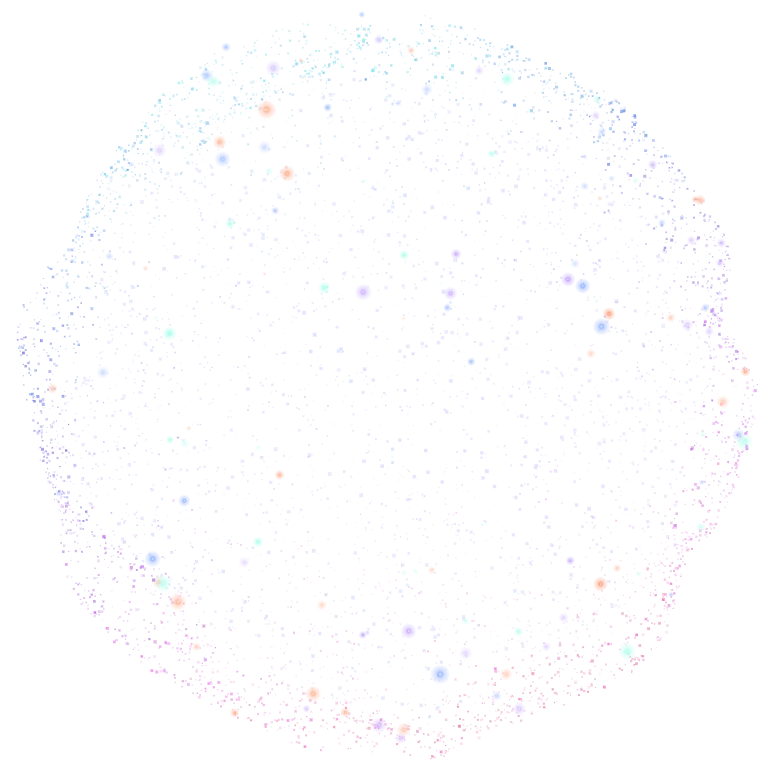
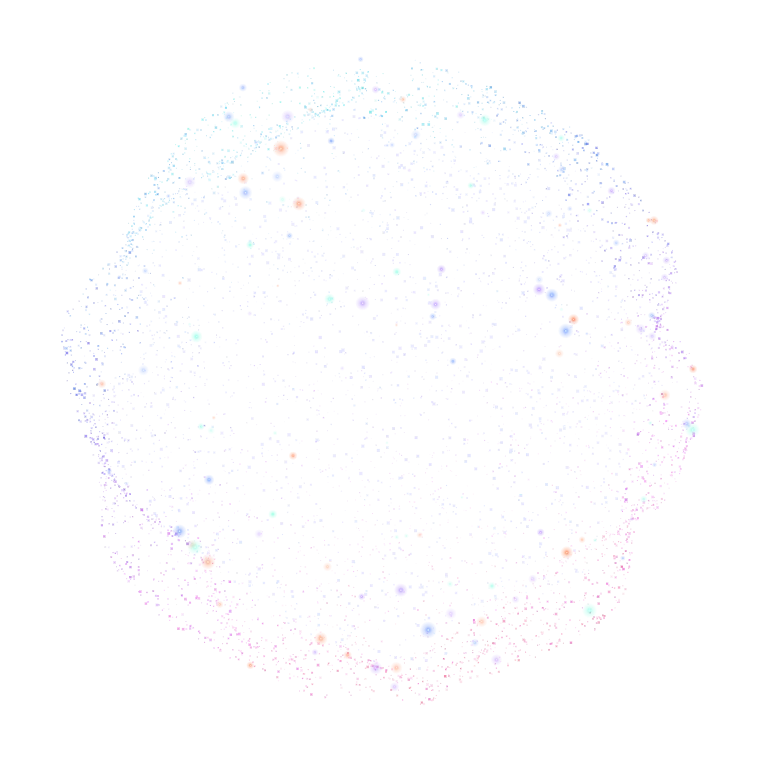
fix(frontend): restore hero layout and make the sphere respond to gestures

diff --git a/frontend/components/sphere-scene.ts b/frontend/components/sphere-scene.ts
@@ -1,3 +1,5 @@
+import type { SpherePose } from "./sphere-motion";
+
 const tau = 2 * Math.PI;
 const starColors = ["#8daeff", "#9cffe6", "#ff966e", "#c1a2ff"];
 
@@ -49,13 +51,17 @@ export function createSphereScene(context: CanvasRenderingContext2D, labels: HTM
     return { element, x: ring * Math.sin(angle), y, z: ring * Math.cos(angle) };
   });
 
-  return function draw(size: number, time: number) {
-    const radius = size * 0.465;
+  return function draw(size: number, time: number, pose: SpherePose) {
+    const radius = size * 0.40;
     const center = size / 2;
-    const angle = time * 0.095;
+    const angle = pose.yaw + (pose.pointerX - 0.5) * pose.influence * 0.22;
     const cos = Math.cos(angle);
     const sin = Math.sin(angle);
-    const tilt = 0.12 * Math.sin(time * 0.13) - 0.08;
+    const tilt = pose.pitch + 0.12 * Math.sin(time * 0.23) - (pose.pointerY - 0.5) * pose.influence * 0.16;
+    const breathing = 0.045 * Math.sin(time * 1.1);
+    const width = 1 + pose.stretchX - pose.stretchY * 0.4 + breathing;
+    const height = 1 + pose.stretchY - pose.stretchX * 0.4 - breathing;
+    const reach = size * 0.23;
     const ct = Math.cos(tilt);
     const st = Math.sin(tilt);
     context.clearRect(0, 0, size, size);
@@ -63,10 +69,21 @@ export function createSphereScene(context: CanvasRenderingContext2D, labels: HTM
     for (const p of particles) {
       const z = p.z * cos - p.x * sin;
       const depth = z * ct + p.y * st;
-      const wave = 1 + 0.013 * Math.sin(time * 0.68 + p.phase);
+      const wave = 1 + 0.034 * Math.sin(time * 0.95 + p.phase)
+        + pose.expansion * (0.2 + p.size * 170);
       const scale = radius * wave / (1 - depth * 0.095);
-      const x = center + (p.x * cos + p.z * sin) * scale;
-      const y = center + (p.y * ct - z * st) * scale;
+      let x = center + (p.x * cos + p.z * sin) * scale * width;
+      let y = center + (p.y * ct - z * st) * scale * height;
+      if (pose.influence > 0.01) {
+        const dx = x - pose.pointerX * size;
+        const dy = y - pose.pointerY * size;
+        const distance = Math.sqrt(dx * dx + dy * dy);
+        if (distance < reach) {
+          const push = (1 - distance / reach) ** 2 * reach * pose.influence / Math.max(1, distance);
+          x += dx * push;
+          y += dy * push;
+        }
+      }
       const light = (depth + 1) / 2;
       const dot = Math.max(0.55, radius * p.size * (0.68 + light));
       context.globalAlpha = 0.29 + light * (0.58 + 0.12 * Math.sin(p.phase + time));
@@ -84,9 +101,9 @@ export function createSphereScene(context: CanvasRenderingContext2D, labels: HTM
       const z = anchor.z * cos - anchor.x * sin;
       const depth = z * ct + anchor.y * st;
       const scale = radius * 0.78 / (1 - depth * 0.095);
-      anchor.element.style.left = `${center + (anchor.x * cos + anchor.z * sin) * scale}px`;
-      anchor.element.style.top = `${center + (anchor.y * ct - z * st) * scale}px`;
-      anchor.element.style.opacity = String(Math.min(1, Math.max(0, depth * 5)));
+      anchor.element.style.left = `${center + (anchor.x * cos + anchor.z * sin) * scale * width}px`;
+      anchor.element.style.top = `${center + (anchor.y * ct - z * st) * scale * height}px`;
+      anchor.element.style.opacity = String(Math.min(1, Math.max(0, depth * 5)) * (1 - pose.expansion));
     }
   };
 }

diff --git a/frontend/components/sphere-motion.ts b/frontend/components/sphere-motion.ts
@@ -1,0 +1,80 @@
+// Pointer coordinates are fractions of the canvas so the response scales with the sphere.
+export function trackSphereMotion(surface: HTMLElement) {
+  const pose = { yaw: 0, pitch: -0.08, pointerX: 0.5, pointerY: 0.5, influence: 0, stretchX: 0, stretchY: 0, expansion: 0 };
+  let dragging: number | null = null;
+  let hovered = false;
+  let yawSpeed = 0;
+  let pitchSpeed = 0;
+  let lastMove = 0;
+  const clamp = (value: number, limit: number) => Math.max(-limit, Math.min(limit, value));
+
+  function move(event: PointerEvent) {
+    if (!event.isPrimary) return;
+    const rect = surface.getBoundingClientRect();
+    const x = (event.clientX - rect.left) / rect.width;
+    const y = (event.clientY - rect.top) / rect.height;
+    if (dragging === event.pointerId) {
+      const dx = x - pose.pointerX;
+      const dy = y - pose.pointerY;
+      const elapsed = Math.max(0.012, (event.timeStamp - lastMove) / 1000);
+      pose.yaw += dx * 4;
+      pose.pitch = clamp(pose.pitch - dy * 3, 1.1);
+      yawSpeed = clamp(dx * 4 / elapsed, 5);
+      pitchSpeed = clamp(-dy * 3 / elapsed, 4);
+    }
+    pose.pointerX = x;
+    pose.pointerY = y;
+    lastMove = event.timeStamp;
+    hovered = true;
+  }
+
+  function down(event: PointerEvent) {
+    if (!event.isPrimary || event.button !== 0) return;
+    move(event);
+    dragging = event.pointerId;
+    yawSpeed = pitchSpeed = 0;
+    surface.setPointerCapture(event.pointerId);
+  }
+
+  function release(event: PointerEvent) {
+    if (dragging !== event.pointerId) return;
+    dragging = null;
+    if (event.timeStamp - lastMove > 100) yawSpeed = pitchSpeed = 0;
+    hovered = event.pointerType === "mouse" && surface.matches(":hover");
+  }
+
+  function leave() {
+    hovered = false;
+  }
+
+  const events = new AbortController();
+  const options = { signal: events.signal };
+  surface.addEventListener("pointermove", move, options);
+  surface.addEventListener("pointerdown", down, options);
+  surface.addEventListener("pointerup", release, options);
+  surface.addEventListener("pointercancel", release, options);
+  surface.addEventListener("lostpointercapture", release, options);
+  surface.addEventListener("pointerleave", leave, options);
+
+  return {
+    pose,
+    advance(dt: number) {
+      const ease = 1 - Math.exp(-9 * dt);
+      pose.yaw += dt * 0.14;
+      if (dragging === null) {
+        pose.yaw += yawSpeed * dt;
+        pose.pitch = clamp(pose.pitch + pitchSpeed * dt, 1.1);
+        pose.pitch += (-0.08 - pose.pitch) * (1 - Math.exp(-dt));
+      }
+      pose.stretchX += (Math.abs(yawSpeed) * 0.045 - pose.stretchX) * ease;
+      pose.stretchY += (Math.abs(pitchSpeed) * 0.045 - pose.stretchY) * ease;
+      yawSpeed *= Math.exp(-4 * dt);
+      pitchSpeed *= Math.exp(-4 * dt);
+      pose.influence += (Number(hovered) - pose.influence) * ease;
+      pose.expansion = Math.max(0, Math.min(1, window.scrollY / window.innerHeight));
+    },
+    disconnect: () => events.abort(),
+  };
+}
+
+export type SpherePose = ReturnType<typeof trackSphereMotion>["pose"];

diff --git a/frontend/components/particle-sphere.tsx b/frontend/components/particle-sphere.tsx
@@ -4,6 +4,7 @@ import { useEffect, useRef } from "react";
 import type { Locale } from "../data/team";
 import { sphereLabels } from "../data/sphere-labels";
 import { createSphereScene } from "./sphere-scene";
+import { trackSphereMotion } from "./sphere-motion";
 
 export function ParticleSphere({ lang }: { lang: Locale }) {
   const container = useRef<HTMLDivElement>(null);
@@ -16,6 +17,7 @@ export function ParticleSphere({ lang }: { lang: Locale }) {
 
     const draw = createSphereScene(context, Array.from(element.querySelectorAll("li")));
     const motion = window.matchMedia("(prefers-reduced-motion: reduce)");
+    const movement = trackSphereMotion(element);
     let visible = false;
     let size = 0;
     let frame = 0;
@@ -24,9 +26,11 @@ export function ParticleSphere({ lang }: { lang: Locale }) {
 
     function animate(now: number) {
       if (now - previous >= 1000 / 30) {
-        time += previous ? Math.min(now - previous, 100) / 1000 : 0;
+        const dt = previous ? Math.min(now - previous, 100) / 1000 : 0;
+        time += dt;
+        movement.advance(dt);
         previous = now;
-        draw(size, time);
+        draw(size, time, movement.pose);
       }
       frame = requestAnimationFrame(animate);
     }
@@ -45,7 +49,7 @@ export function ParticleSphere({ lang }: { lang: Locale }) {
       const pixels = Math.round(size * Math.min(window.devicePixelRatio, 2));
       canvas.width = canvas.height = pixels;
       context.setTransform(pixels / size, 0, 0, pixels / size, 0, 0);
-      draw(size, time);
+      draw(size, time, movement.pose);
       element.dataset.ready = "";
       sync();
     });
@@ -59,6 +63,7 @@ export function ParticleSphere({ lang }: { lang: Locale }) {
     document.addEventListener("visibilitychange", sync);
     return () => {
       cancelAnimationFrame(frame);
+      movement.disconnect();
       resize.disconnect();
       observer.disconnect();
       motion.removeEventListener("change", sync);
@@ -67,7 +72,7 @@ export function ParticleSphere({ lang }: { lang: Locale }) {
   }, []);
 
   return (
-    <div ref={container} className="particle-sphere group pointer-events-none">
+    <div ref={container} className="particle-sphere group">
       <canvas aria-hidden="true" className="block size-full" />
       {sphereLabels.length > 0 && (
         <ul className="absolute inset-0 flex flex-col items-center justify-center gap-1">

diff --git a/frontend/app/globals.css b/frontend/app/globals.css
@@ -70,17 +70,17 @@
       #0d0e10;
   }
   .particle-sphere {
-    @apply relative order-1 mx-auto my-3 aspect-square w-full max-w-[27rem];
+    @apply absolute right-0 bottom-0 aspect-square w-[min(78vw,19rem)] touch-pan-y select-none motion-reduce:pointer-events-none md:top-1/2 md:right-[2%] md:bottom-auto md:w-[min(57%,85svh,54rem)] md:-translate-y-1/2;
     background: radial-gradient(closest-side, #7176cf24, #7566b00d 85%, transparent);
+  }
+  .particle-sphere[data-ready] {
+    @apply motion-safe:cursor-grab motion-safe:active:cursor-grabbing;
   }
   .particle-sphere:not([data-ready]) canvas {
     background: url("./assets/particle-sphere.webp") center / contain no-repeat;
   }
   .hero-title {
-    @apply relative mt-6 text-[clamp(3.65rem,10vw,9rem)] leading-[0.94] font-normal tracking-[-0.075em];
-  }
-  .hero-action {
-    @apply relative order-2;
+    @apply max-w-[6em] text-[clamp(3.5rem,8.6vw,8.5rem)] leading-[0.89] font-medium tracking-[-0.062em];
   }
   .project-brand {
     @apply absolute right-4 bottom-4 inline-flex items-center gap-[0.34em] rounded-full border border-[#09318d]/15 bg-white/95 px-4 py-3 text-[#09318d] shadow-lg;
@@ -94,35 +94,5 @@
     @apply block size-[0.68em] shrink-0 bg-[#f59acc];
     border-radius: 55% 55% 55% 12%;
     transform: rotate(-12deg);
-  }
-  @media (min-width: 48rem) {
-    .hero-layout {
-      min-height: max(39rem, calc(100svh - 4.6rem));
-    }
-    .particle-sphere {
-      @apply absolute top-1/2 left-1/2 my-0 max-w-none -translate-1/2;
-      width: min(63%, 86svh, 62rem);
-    }
-    .hero-event {
-      @apply absolute top-[8%] left-[6%];
-    }
-    .hero-title {
-      @apply pointer-events-none absolute inset-0 m-0 text-[clamp(4.4rem,7.6vw,9rem)];
-    }
-    .hero-title span {
-      @apply pointer-events-auto absolute;
-    }
-    .hero-title span:nth-child(1) {
-      @apply top-[17%] left-[9%];
-    }
-    .hero-title span:nth-child(2) {
-      @apply top-[34%] left-[64%];
-    }
-    .hero-title span:nth-child(3) {
-      @apply bottom-[20%] left-[17%];
-    }
-    .hero-action {
-      @apply absolute right-[3%] bottom-[16%] left-[60%] lg:left-[69%];
-    }
   }
 }

diff --git a/frontend/app/[lang]/page.tsx b/frontend/app/[lang]/page.tsx
@@ -109,9 +109,9 @@ export default async function Home({ params }: PageProps<"/[lang]">) {
           aria-labelledby="hero-title"
           className="hero relative isolate overflow-hidden border-b border-line"
         >
-          <div className="hero-layout relative mx-auto flex max-w-[112rem] flex-col px-5 py-8 sm:px-9 md:block md:px-0 md:py-0">
-            <ParticleSphere lang={lang} />
-            <p className="hero-event meta flex flex-wrap items-center gap-3 text-mint">
+          <ParticleSphere lang={lang} />
+          <div className="shell pointer-events-none relative flex min-h-[36rem] flex-col items-start pt-12 pb-44 sm:min-h-[40rem] md:justify-center md:py-24 [&>*]:pointer-events-auto lg:min-h-[clamp(38rem,74svh,54rem)]">
+            <p className="meta mb-7 flex flex-wrap items-center gap-3 text-mint">
               <span>
                 {team.event[lang]} {team.year}
               </span>
@@ -119,18 +119,14 @@ export default async function Home({ params }: PageProps<"/[lang]">) {
               {t.round}
             </p>
             <h1 id="hero-title" lang="en" className="hero-title">
-              {teamName.split(" ").map((word, index) => (
-                <span key={index}>{index > 0 && " "}{word}</span>
-              ))}
+              {teamName}
             </h1>
-            <div className="hero-action flex flex-col items-start gap-5">
-              <p className="max-w-[23ch] text-lg leading-snug tracking-tight text-paper md:text-xl">
-                {team.motto[lang]}
-              </p>
-              <a href="#members" className="pill">
-                {t.meet}
-              </a>
-            </div>
+            <p className="mt-6 max-w-[30ch] text-xl leading-snug tracking-tight text-paper md:text-2xl">
+              {team.motto[lang]}
+            </p>
+            <a href="#members" className="pill mt-8">
+              {t.meet}
+            </a>
           </div>
         </section>
         <section

diff --git a/docs/design.md b/docs/design.md
@@ -1,6 +1,6 @@
 # Визуальная спецификация визитки
 
-На первом экране посетитель видит название команды, девиз и переход к участникам. В центре вращается сфера из светящихся частиц. Вокруг неё расположены три слова названия команды. [Референс первого экрана](https://livel-agency.com/)
+На первом экране посетитель видит название команды, девиз и переход к участникам. Название команды выровнено по левому краю. На фоне вращается сфера из светящихся частиц. [Референс первого экрана](https://livel-agency.com/)
 
 ## Цвет и типографика
 
@@ -14,14 +14,14 @@
 | `lilac` | `#dfcdf5` | Подвал и роли |
 | `mint` | `#a4f1cf` | Подписи категорий и состояние наведения основной кнопки |
 
-Inter обслуживает кириллицу и латиницу. Файл переменного шрифта поставляется с приложением. Главный заголовок использует обычное начертание Inter с плотным трекингом и межстрочным интервалом 0,94. Заголовки секций используют шкалу 37,6–72 px. Основной текст начинается с 16 px. Короткие подписи мероприятия и учебной группы набраны системным моноширинным шрифтом. Исходные значения в rem и правила компонентов приведены в [общих стилях](../frontend/app/globals.css).
+Inter обслуживает кириллицу и латиницу. Файл переменного шрифта поставляется с приложением. Главный заголовок использует Inter Medium с межстрочным интервалом 0,89 и максимальной шириной 6 em. Заголовки секций используют шкалу 37,6–72 px. Основной текст начинается с 16 px. Короткие подписи мероприятия и учебной группы набраны системным моноширинным шрифтом. Исходные значения в rem и правила компонентов приведены в [общих стилях](../frontend/app/globals.css).
 
 ## Композиция
 
 | Область | Правило |
 | --- | --- |
 | Шапка | Логотип команды и сокращённое имя слева, якоря в центре, языки справа. На узком экране меню образует отдельную строку и может переноситься. |
-| Первый экран | От 768 px слова названия обрамляют сферу, девиз и кнопка стоят справа внизу. На телефоне сфера расположена между заголовком и девизом. Весь текст остаётся в HTML. |
+| Первый экран | Событие, название, девиз и кнопка образуют одну колонку слева. Сфера занимает правую часть экрана, на телефоне она смещается к нижнему правому краю. Весь текст остаётся в HTML. |
 | О команде | Узкая колонка с названием и более широкая с рассказом о команде и мотивации. |
 | Участники | Карточка содержит имя, аватар, группу, роль, вклад, навыки и контакт. При ширине от 768 px в ряду две карточки, от 1280 px — четыре. |
 | Навыки | Три строки с названием категории и списком технологий. Текст переносится независимо от соседней строки. |

diff --git a/docs/design-system.md b/docs/design-system.md
@@ -6,6 +6,6 @@
 - `.pill` оформляет основные действия и ссылки в карточках проектов. `.text-link` сохраняет подчёркивание у вторичных текстовых ссылок. Якоря меню получают контрастный текст при наведении. Видимый контур фокуса отделён от ссылки зазором.
 - Активный язык получает светлую заливку и `aria-current="page"`. Обе версии открываются обычными ссылками. Первая ссылка при обходе с клавиатуры ведёт к основному содержимому.
 - Навыки участников оформляются классом `.tag` и остаются элементами списка. Эмблемы рядом с названием и аватары при подписанном имени скрыты от экранного диктора.
-- На первом экране медленно вращается сфера из частиц. При системной настройке уменьшения движения виден неподвижный кадр, переход цвета основной кнопки отключается.
+- На первом экране сфера из частиц вращается сама и по направлению перетаскивания. Оболочка вытягивается при движении и плавно восстанавливает форму. При системной настройке уменьшения движения виден неподвижный кадр, переход цвета основной кнопки отключается.
 
 Перед публикацией проверьте переключение RU → EN → RU, видимый фокус, все якоря, контакт и проект. На 360, 768 и 1440 px проверьте перенос имён и заголовков, наличие изображения и отсутствие горизонтальной прокрутки.

diff --git a/docs/components.md b/docs/components.md
@@ -3,7 +3,7 @@
 | Компонент | Содержимое и состояния |
 | --- | --- |
 | Шапка | Эмблема со ссылкой на текущую языковую версию, меню, RU и EN. Активная ссылка имеет доступное состояние и контрастную заливку. |
-| Первый экран | Событие, название команды, девиз, ссылка к участникам. В центре вращается декоративная сфера. Локализованные подписи на её поверхности задаёт [список в TypeScript](../frontend/data/sphere-labels.ts). |
+| Первый экран | Событие, название команды, девиз, ссылка к участникам. Справа вращается сфера. Перетаскивание поворачивает её, движение указателя раздвигает частицы, а прокрутка расширяет оболочку. Локализованные подписи на её поверхности задаёт [список в TypeScript](../frontend/data/sphere-labels.ts). |
 | Карточка участника | Локализованные имя, роль, вклад и навыки, учебная группа, фото или инициалы. При заполненном личном контакте показывает личную ссылку, иначе ведёт в общий канал с подписью «Через команду / Via the team». |
 | Строка навыков | Название категории и список элементов, допускающий перенос. |
 | Карточка проекта | Локализованное изображение с альтернативным текстом, тип «Проект / Project» или «Идея / Idea», название, описание и необязательная ссылка-кнопка. Для Dobropay обложка дополнена фирменным знаком и написанием `dobropay`. |

diff --git a/docs/decisions/0012-hero-layout-and-motion.md b/docs/decisions/0012-hero-layout-and-motion.md
@@ -1,0 +1,7 @@
+# 0012. Исходная компоновка первого экрана и движение сферы
+
+Дата принятия — 2026-11-26.
+
+Команда попросила вернуть текст и кнопку к расположению из версии с лентой. Первый экран снова использует исходные размеры контейнера, типографику и отступы. Сферу рисуем отдельным слоем справа, а на телефоне используем свободное место у нижнего края.
+
+Вращение продолжается по инерции после перетаскивания. Около указателя частицы расходятся, а при прокрутке разлетаются от центра с разной скоростью. При уменьшенном движении показываем неподвижный кадр. Компоновка уточняет [решение о сфере](0010-hero-particle-sphere.md).

diff --git a/docs/decisions/README.md b/docs/decisions/README.md
@@ -15,5 +15,6 @@
 | [0009. Логотип команды в шапке и портфолио](0009-team-logo.md) | 2026-11-26 |
 | [0010. Сфера из частиц на первом экране](0010-hero-particle-sphere.md) | 2026-11-26 |
 | [0011. Визуальные обложки проектов и фирменный знак Dobropay](0011-project-previews.md) | 2026-11-26 |
+| [0012. Исходная компоновка первого экрана и движение сферы](0012-hero-layout-and-motion.md) | 2026-11-26 |
 
 Скопируй [шаблон записи](template.md) в файл `NNNN-краткое-название.md` и добавь его в таблицу.
